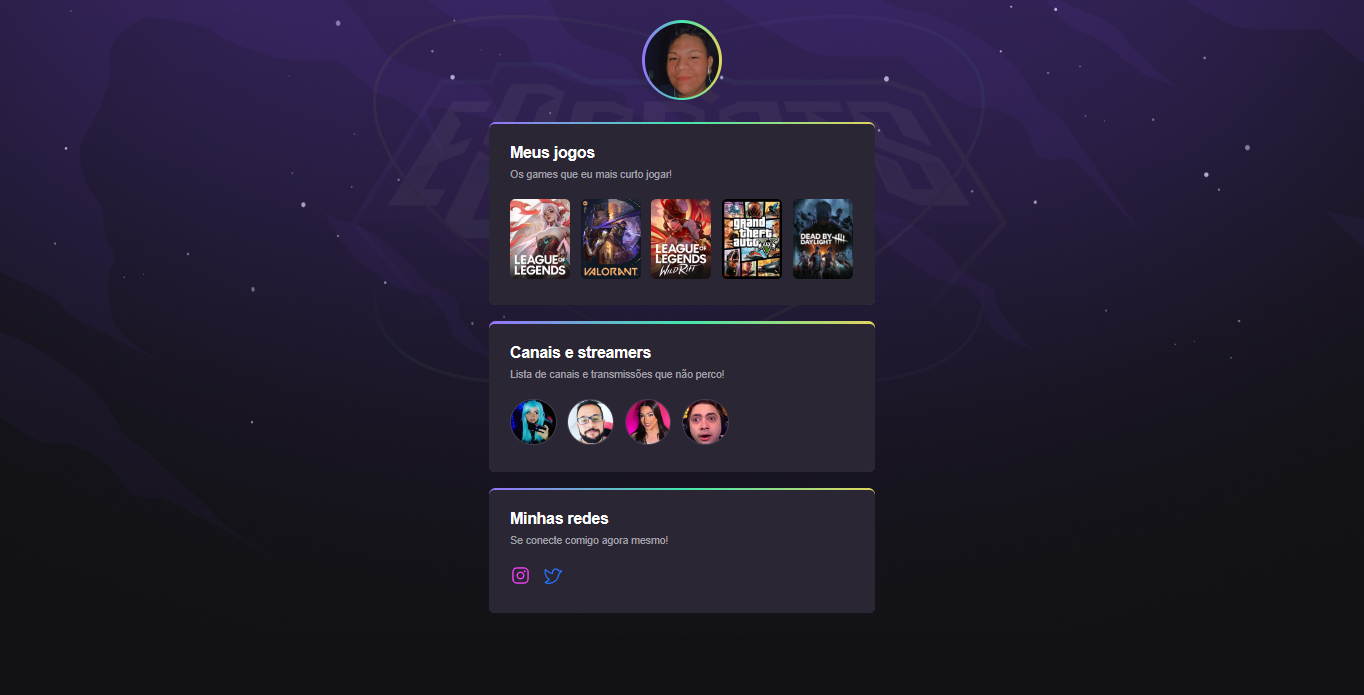
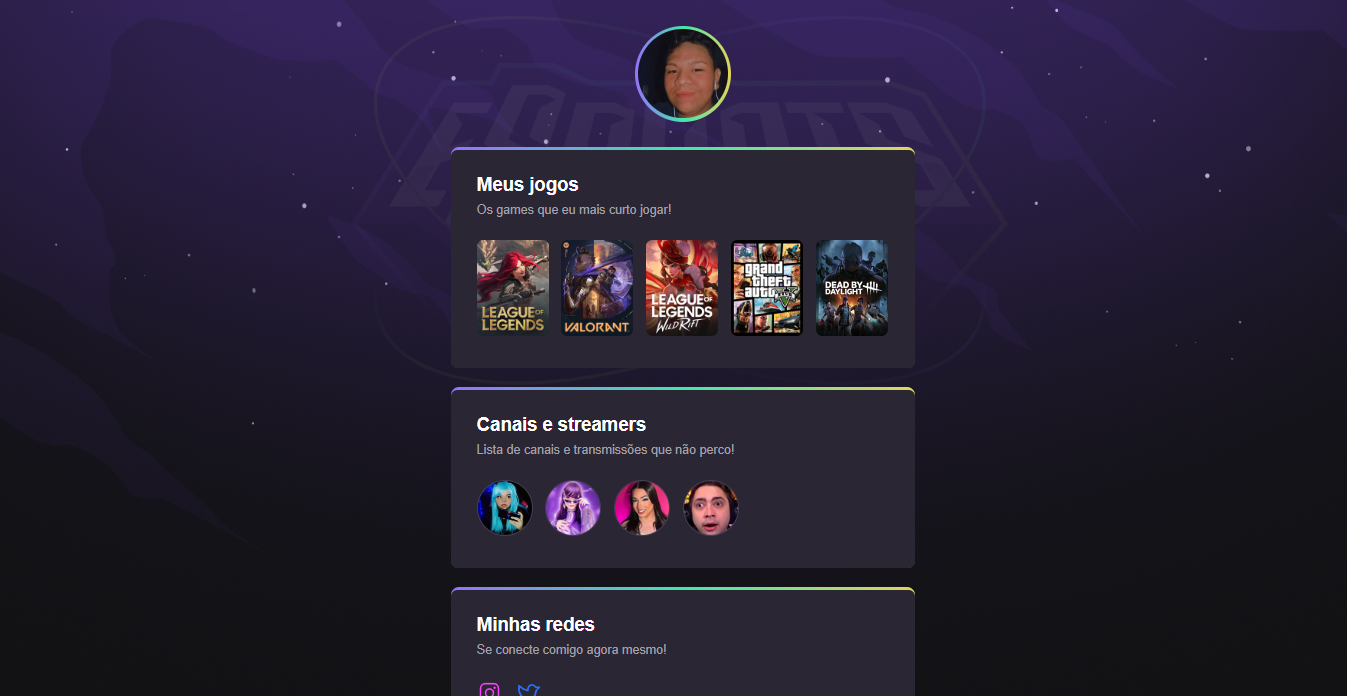
update

Changed region(s): [[0.343, 0.0302, 0.686, 0.6647], [0.3118, 0.695, 0.686, 1.0]]

diff --git a/index.html b/index.html
@@ -94,8 +94,8 @@
                                         <li>
                                             <a
                                             target="_blank"
-                                            href="https://www.twitch.tv/demuxaa">
-                                            <img src="https://static-cdn.jtvnw.net/jtv_user_pictures/f9d764ac-3262-413c-ae97-28dc11b17598-profile_image-70x70.png" alt="Imagem da Demuxa">
+                                            href="https://www.twitch.tv/sabrinoca">
+                                            <img src="https://static-cdn.jtvnw.net/jtv_user_pictures/300f7b7c-8d66-4161-b7f6-ddfac4db90a2-profile_image-70x70.png" alt="Imagem da Sahrinoca">
                                         </a>
                                         </li>
 
